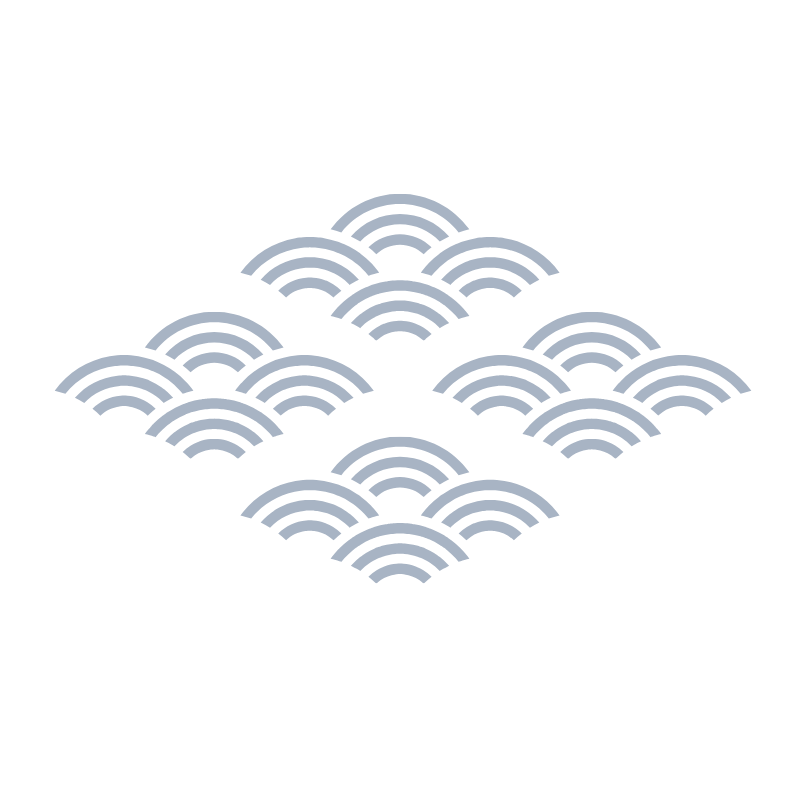
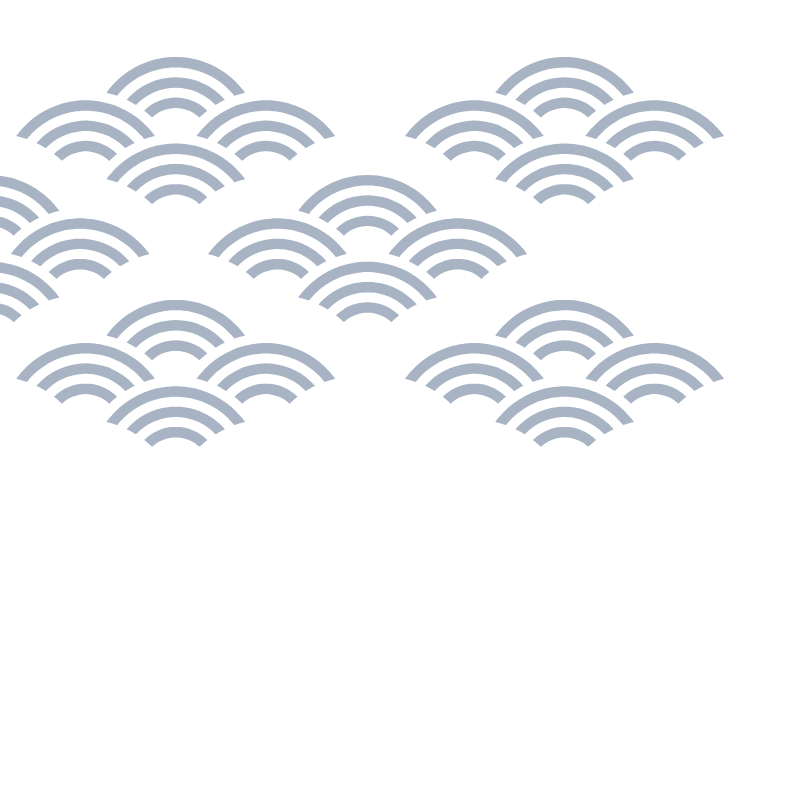
Add area decorations with responsive design for improved aesthetics

diff --git a/css/menu.css b/css/menu.css
@@ -248,6 +248,37 @@
   z-index: 1;
 }
 
+/* =========================
+  Area 装飾
+========================= */
+
+.area-detail::before,
+.area-detail::after {
+  content: "";
+  position: absolute;
+  width: 320px;
+  aspect-ratio: 1;
+
+  background-size: contain;
+  background-repeat: no-repeat;
+  pointer-events: none;
+  z-index: 0;
+}
+
+/* 左上 */
+.area-detail::before {
+  top: 20px;
+  left: 0;
+  background-image: url("../images/area_top_left.png");
+}
+
+/* 右下 */
+.area-detail::after {
+  right: -20px;
+  bottom: 0;
+  background-image: url("../images/area_bottom_right.png");
+}
+
 /* 導入文 */
 .area-detail__lead {
   max-width: 620px;
@@ -484,6 +515,22 @@
     grid-template-columns: minmax(0, 1fr);
     gap: 36px;
   }
+
+  /* Area 装飾：スマホ */
+.area-detail::before,
+.area-detail::after {
+  width: 150px;
+}
+
+.area-detail::before {
+  top: 10px;
+  left: -35px;
+}
+
+.area-detail::after {
+  right: -35px;
+  bottom: 10px;
+}
 
   .area-detail__map {
     max-width: 320px;
